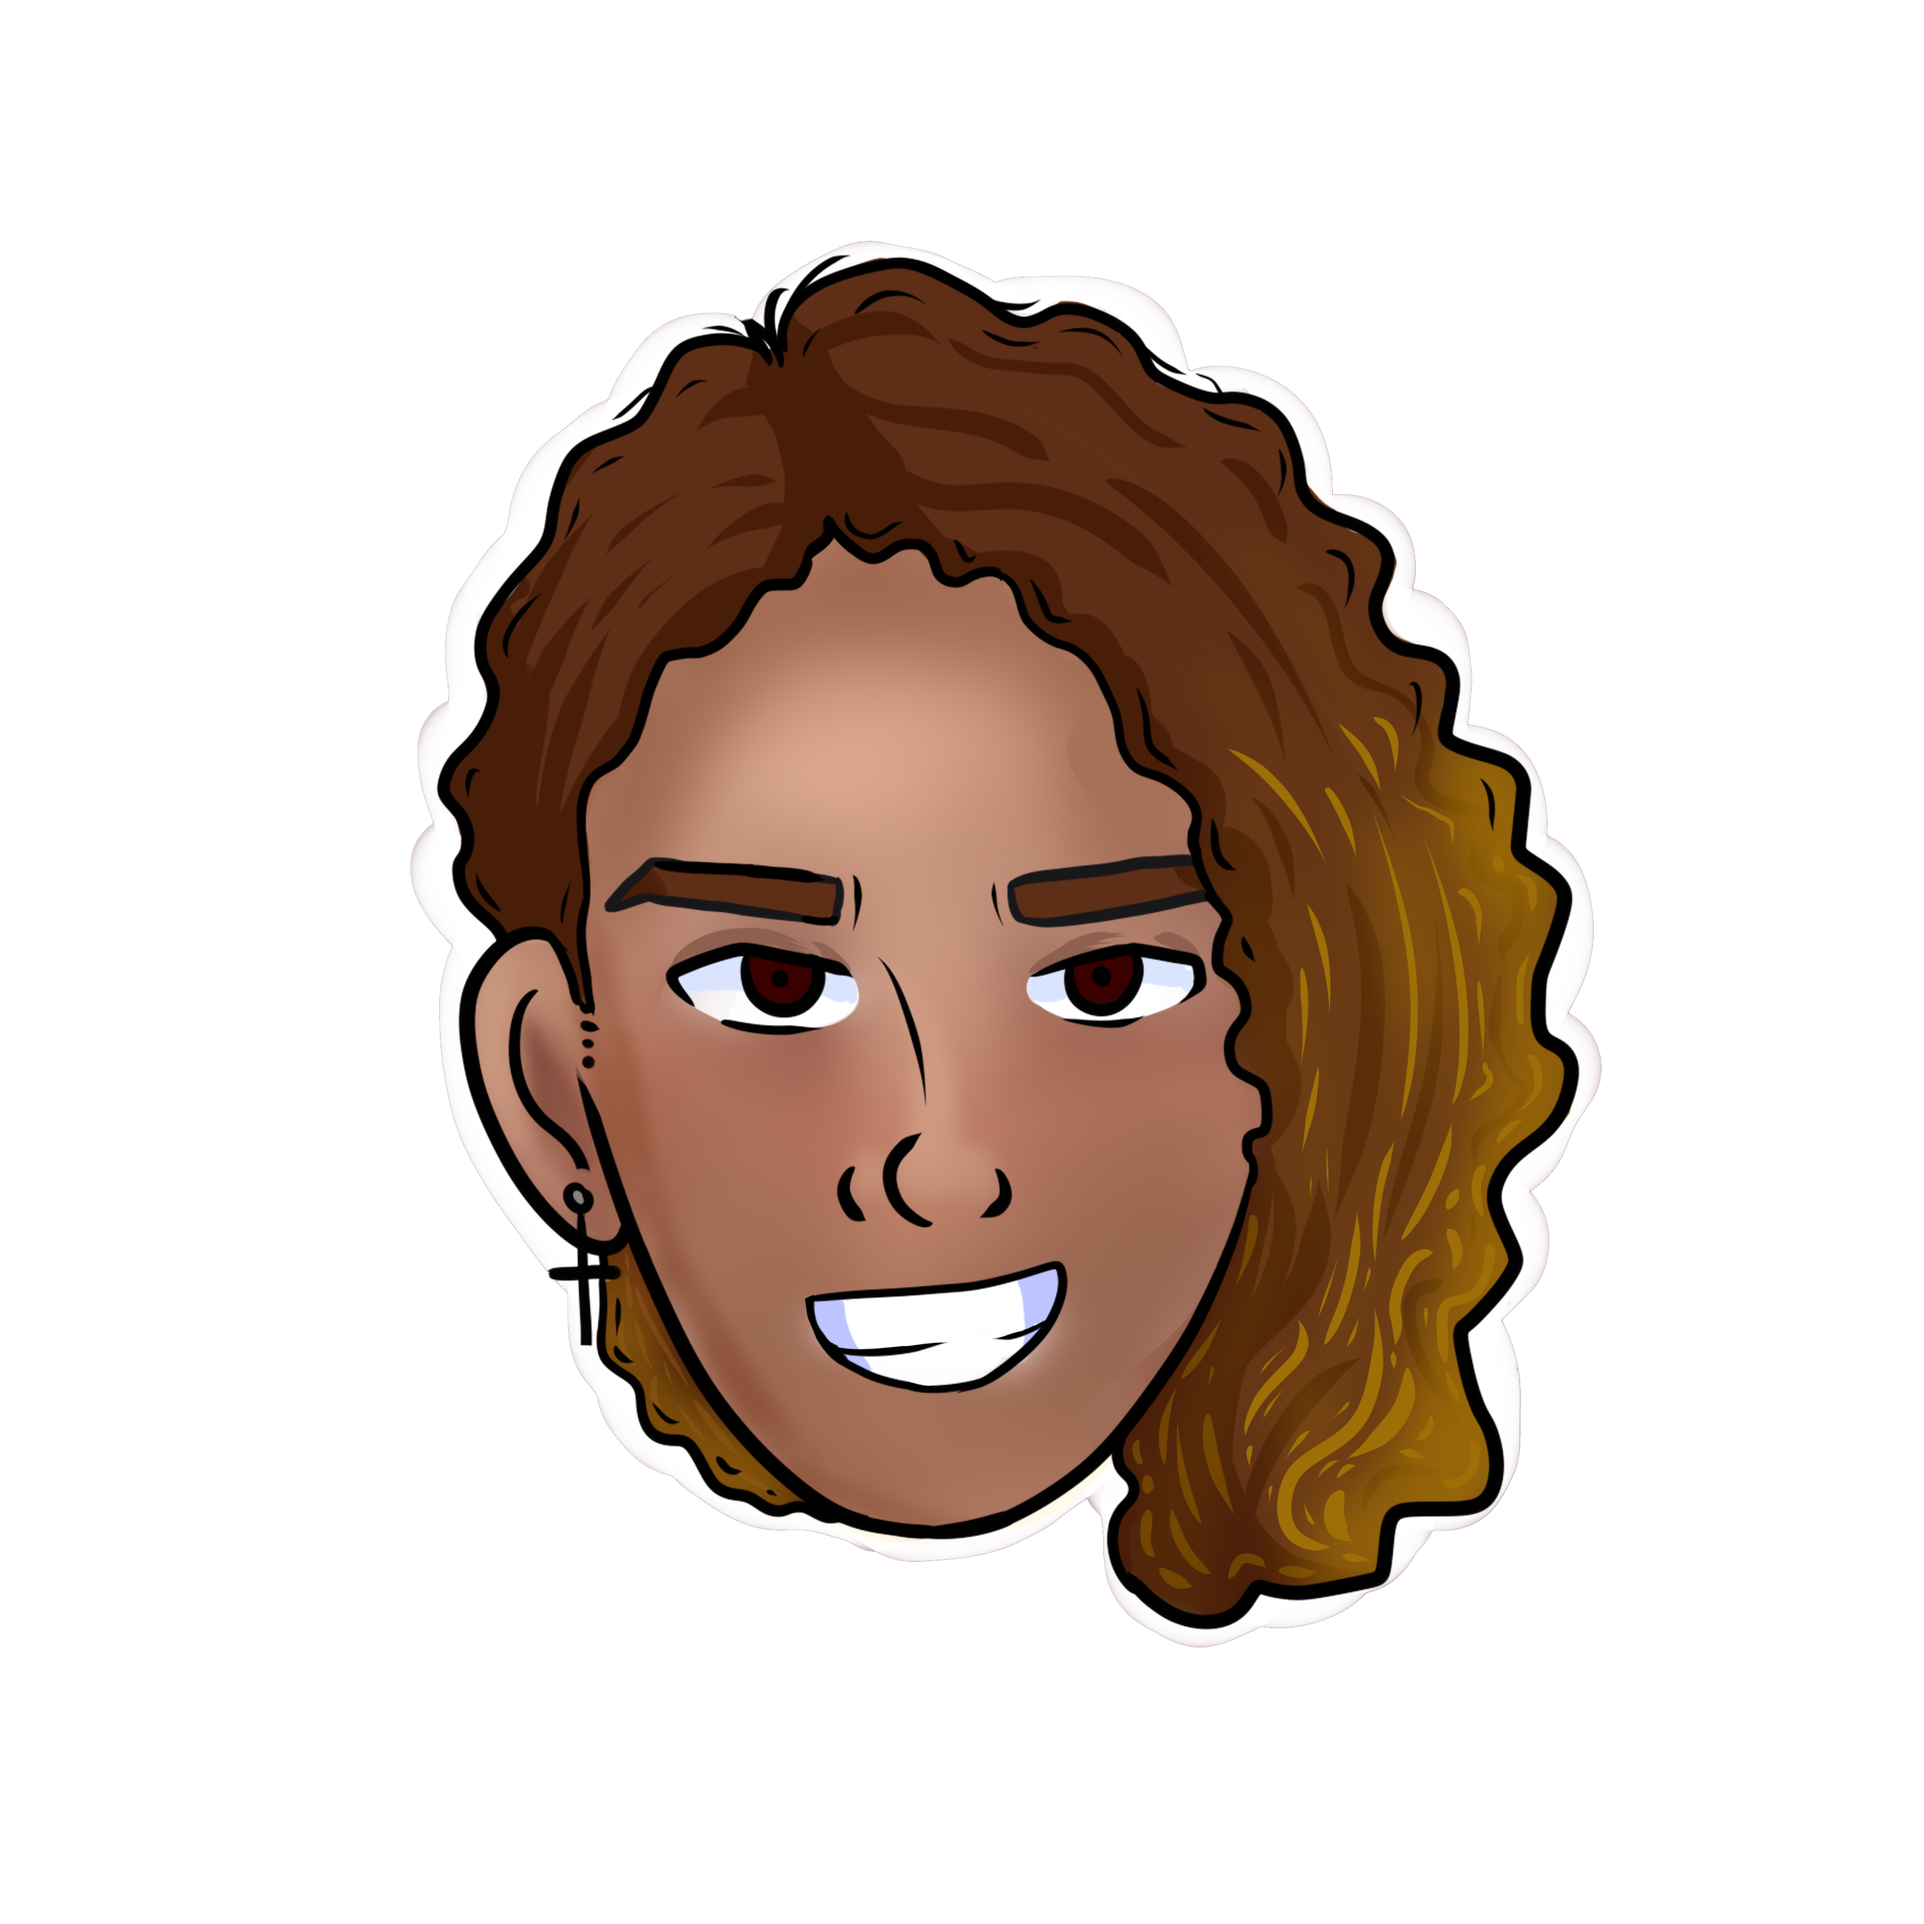
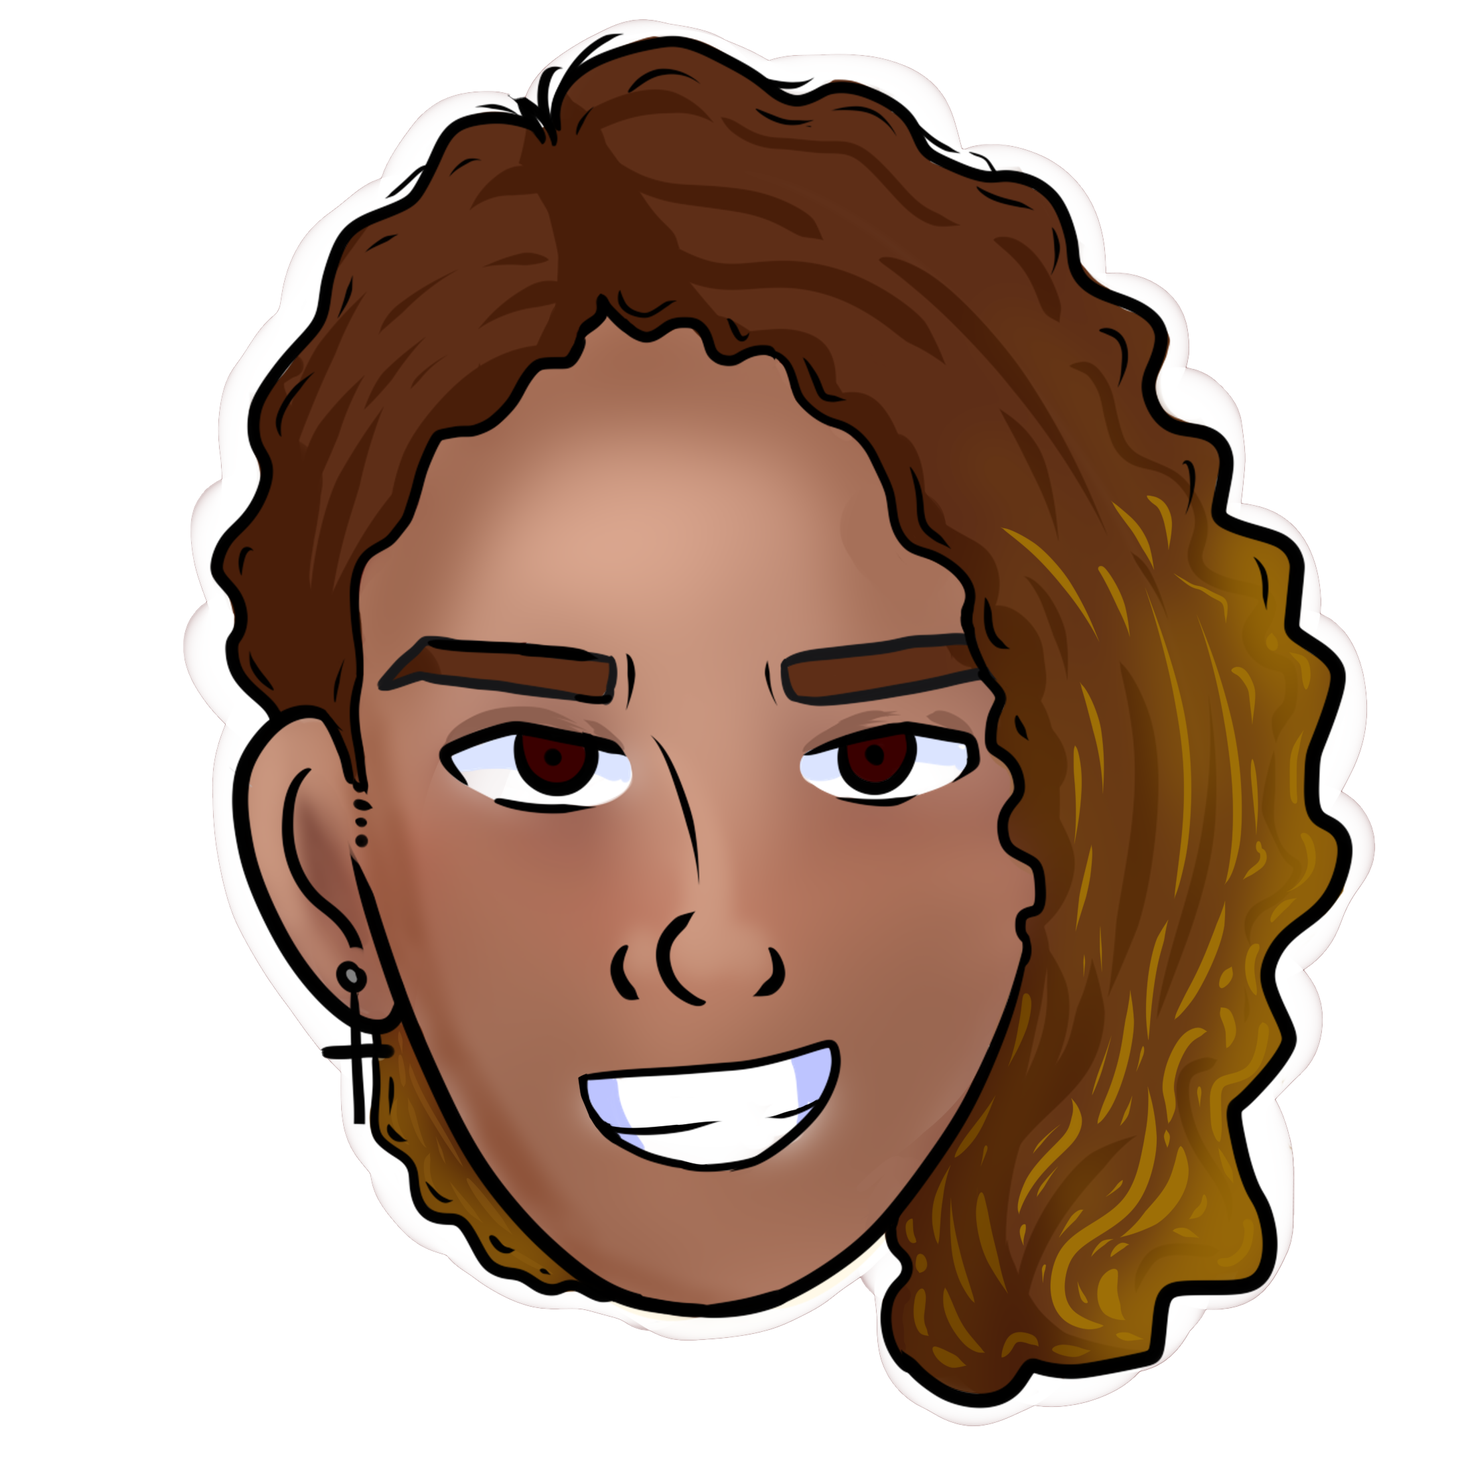
Página de apresentação feita

diff --git a/style.css b/style.css
@@ -1,17 +1,28 @@
 @charset "UTF-8";
 
+@import url('https://fonts.googleapis.com/css2?family=Inter:wght@100;200;300;400;500;600;700;800;900&display=swap');
+
 * {
     padding: 0;
     margin: 0;
+    overflow-x: hidden;
+}
+
+html, main {
+    background-color: #159A9C;
 }
 
 header {
-    background-color: #DEEFE7;
-
     display: flex;
+    position: fixed;
     height: 100px;
+    width: 100%;
     justify-content: end;
     border-bottom: 2px solid white;
+    background: rgba(255, 255, 255, 0.1);
+    box-shadow: 0px 4px 24px 1px rgba(0, 0, 0, 0.28);
+    backdrop-filter: blur(5px);
+    -webkit-backdrop-filter: blur(5px);
 }
 
 header menu {
@@ -25,6 +36,7 @@ header ul {
     align-items: center;
     height: 100%;
     list-style-type: none;
+    color: black;
 }
 
 header li a {
@@ -32,15 +44,11 @@ header li a {
     color: white;
 }
 
-main {
-    background-color: #DEEFE7;
-}
-
 main div#home {
     display: flex;
-    justify-content: space-around;
+    justify-content: center;
     align-items: center;
-    width: 100%;
+    width: 100vw;
     height: 100vh;
     background-image: linear-gradient(45deg, #DEEFE7, #159A9C);
     color: white;
@@ -48,10 +56,12 @@ main div#home {
 
 main div.text-image-home {
     display: flex;
-    justify-content: center;
+    justify-content: space-around;
     align-items: center;
-    width: 60%;
+    width: 80%;
     height: 60%;
+    font-family: Inter, sans-serif;
+    font-weight: bold;
 }
 
 main p.small-presentation-text {
@@ -59,33 +69,43 @@ main p.small-presentation-text {
 }
 
 main p.big-presentation-text {
-    font-size: 6em;
+    font-size: 5em;
+}
+
+main div.image-home img{
+    width: 25vw;
+    margin: 0 5vh;
+}
+
+.text-home button {
+    height: 4em;
+    width: 100%;
+    margin-top: 3em;
+    border-radius: 30px;
+    border: 0px;
+    font-family: Inter, sans-serif;
+    font-weight: bold;
+    font-size: 1em;
+    transition: .3s;
+}
+
+.text-home button:hover {
+    background-color: #002333;
+    color: white;
+    letter-spacing: .2em;
 }
 
 .hidden-name {
     display: hidden;
     opacity: 0;
-    transition: opacity .3s;
-}
-
-.vieri {
-    position: absolute;
-    left: 0;
-}
-
-span.vieri-translated {
-    position: relative;
-    transform: translate(0, 0);
-    transition: transform 0.5s ease;
-}
-
-.full-name {
-    position: relative;
+    transition: .75s cubic-bezier(0.215, 0.610, 0.355, 1.000);
+    letter-spacing: -0.7em;
 }
 
 .show-name {
     display: inline;
     opacity: 1;
+    letter-spacing: normal;
 }
 
 main div.foto {
@@ -96,14 +116,20 @@ main div.foto {
 
 main div#about {
     background-color: #159A9C;
+    height: 100vh;
+    width: 100vw;
 }
 
 main div#projects {
     background-color: #DEEFE7;
+    height: 100vh;
+    width: 100vw;
 }
 
 main div#skills {
     background-color: #159A9C;
+    height: 100vh;
+    width: 100vw;
 }
 
 footer {

diff --git a/index.html b/index.html
@@ -4,7 +4,7 @@
     <meta charset="UTF-8">
     <meta http-equiv="X-UA-Compatible" content="IE=edge">
     <meta name="viewport" content="width=device-width, initial-scale=1.0">
-    <title>Portifólio</title>
+    <title>Portifólio | Emmanuel Vieri</title>
     <link rel="stylesheet" href="style.css">
 </head>
 <body>
@@ -20,17 +20,17 @@
     </header>
     <main>
         <div id="home">
-            <div class="text-image-home">
+            <div onmouseover="showName()" onmouseout="hideName()" class="text-image-home">
                 <div class="text-home">
                     <p class="small-presentation-text">Hi, i'm</p>
-                    <p onmouseover="showName()" onmouseout="hideName()" class="big-presentation-text">
-                        e<span class="full-name"><span class ="hidden-name" id="hidden-name">mmanuel </span><span class="vieri">vieri</span></span>
+                    <p class="big-presentation-text">
+                        e<span class="full-name"><span class ="hidden-name" id="hidden-name">mmanuel</span><span class="vieri">vieri</span></span>
                     </p>
                     <p class="small-presentation-text">Front-end Developer</p>
                     <button>Linkedin</button>
                 </div>
                 <div class="image-home">
-                    <img src="MANEL.png" alt="" width="500px">
+                    <img src="MANEL.png" alt="">
                 </div>
             </div>
         </div>
@@ -69,19 +69,6 @@
         function showName() {
             var hiddenName = document.getElementById("hidden-name");
             hiddenName.classList.add("show-name");
-
-            // var vieri = document.getElementsByClassName("vieri");
-            // vieri.classList.add("vieri-translated");
-            // vieri.classList.remove("vieri");
-
-            var elementoMovel = document.getElementByClassName("vieri");
-            var elementoReferencia = document.getElementById("elemento-referencia");
-
-            var topDiff = elementoReferencia.offsetTop - elementoMovel.offsetTop;
-            var leftDiff = elementoReferencia.offsetLeft - elementoMovel.offsetLeft;
-
-            elementoMovel.style.transform = "translate(" + leftDiff + "px, " + topDiff + "px)";
-            elementoMovel.classList.add("mover");
         }
 
         function hideName() {
